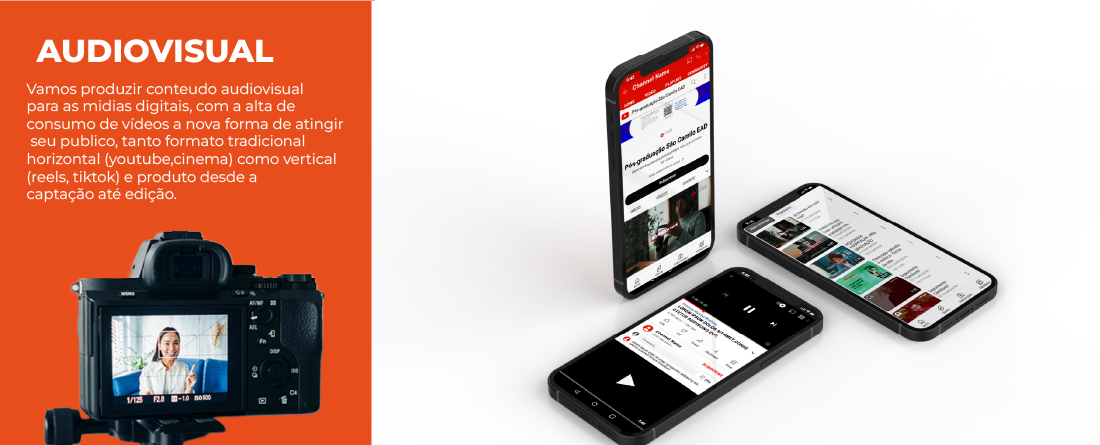
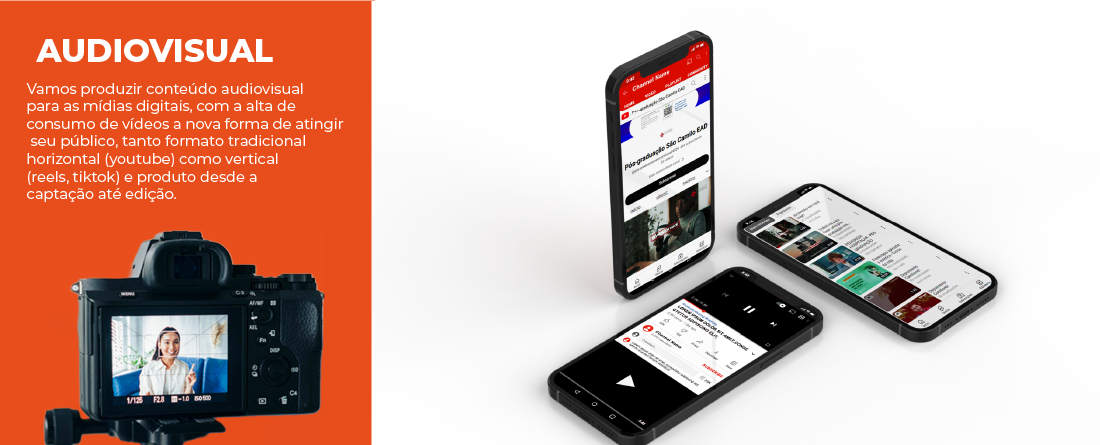
commit2
revisao ortografica

diff --git a/index.html b/index.html
@@ -26,10 +26,10 @@
 		<div id="topo">
 			<div id="centralizadormenu">
 				<ul id="menu">
-				<li class="menuitens"><a href="index.html">Inicio</a></li>
+				<li class="menuitens"><a href="index.html">Início</a></li>
 				<li class="menuitens"><a href="sobre.html">Sobre</a></li>
 				<li id="logolista"><a href="index.html"><img src="imagens/logotopo.png"></a></li>		
-				<li class="menuitens"><a href="portfolio.html">Portfolio</a></li>
+				<li class="menuitens"><a href="portfolio.html">Portfólio</a></li>
 				<li class="menuitens"><a href="contato.html">Contato</a></li>
 
 				</ul>	
@@ -47,11 +47,11 @@
 	
 		<div id="servicosindex1">
 			<div class="caixaserv"  id="caixa1"> 
-				<div id="textofalamossualingua">Falamos a sua língua  <br>e temos a solução do<br> seu problema </div>
+				<div id="textofalamossualingua">Falamos a sua língua e temos a solução do<br> seu problema </div>
 			</div>
 			
 			<div class="caixaserv"  id="caixa2"> 
-					<div id="textoomarketing">O marketing digital e uma ferramenta essencial para empreendedores, não<br> precisa ser complicado, deixamos simples para voce.</div>
+					<div id="textoomarketing">O marketing digital e uma ferramenta essencial para empreendedores, não<br> precisa ser complicado, deixamos simples para você.</div>
 			</div>
 			
 			
@@ -75,7 +75,7 @@
 						<div id="logodesignergrafico"> <img src="imagens/1x/Prancheta 1.png"> </div>
 				
 						<div id="designergrafico"> 
-						<h1 class="tituloservicos">Design Grafico</h1> 
+						<h1 class="tituloservicos">Design Gráfico</h1> 
 						
 						<p class="textoservicos"> Produção de peças graficas,Criação de marca e consolidação  de marca.</p>
 				</div>
@@ -93,7 +93,7 @@
 					<div id="audiovisual"> 
 						<h1 class="tituloservicos">Audiovisual</h1> 
 						
-						<p class="textoservicos" >Produção de audiovisual <br> para sua empresa,  adptado <br> de acordo com a plataforma.</p>
+						<p class="textoservicos" >Produção de audiovisual <br> para sua empresa, adaptado <br> de acordo com a plataforma.</p>
 			
 			
 					</div>
@@ -112,7 +112,7 @@
 							<div id="marketing"> 
 									<h1 class="tituloservicos">Marketing de Conteudo</h1> 
 						
-									<p class="textoservicos"		>Marketing de conteúdo, <br> gestão de redes sociais e seus <br> respectivos trafegos pago. </p>
+									<p class="textoservicos"		>Marketing de conteúdo, <br> gestão de redes sociais e seus <br> respectivos tráfegos pago. </p>
 			
 			
 							</div>

diff --git a/contato.html b/contato.html
@@ -24,10 +24,10 @@
 		<div id="topo">
 			<div id="centralizadormenu">
 				<ul id="menu">
-				<li class="menuitens"><a href="index.html">Inicio</a></li>
+				<li class="menuitens"><a href="index.html">Início</a></li>
 				<li class="menuitens"><a href="sobre.html">Sobre</a></li>
 				<li id="logolista"><a href="index.html"><img src="./contato_files/logotopo.png"></a></li>		
-				<li class="menuitens"><a href="portfolio.html">Portfolio</a></li>
+				<li class="menuitens"><a href="portfolio.html">Portfólio</a></li>
 				<li class="menuitens"><a href="contato.html">Contato</a></li>
 
 				</ul>	

diff --git a/portfolio.html b/portfolio.html
@@ -23,10 +23,10 @@
 		<div id="topo">
 			<div id="centralizadormenu">
 				<ul id="menu">
-				<li class="menuitens"><a href="index.html">Inicio</a></li>
+				<li class="menuitens"><a href="index.html">Início</a></li>
 				<li class="menuitens"><a href="sobre.html">Sobre</a></li>
 				<li id="logolista"><a href="index.html"><img src="imagens/logotopo.png"></a></li>		
-				<li class="menuitens"><a href="portfolio.html">Portfolio</a></li>
+				<li class="menuitens"><a href="portfolio.html">Portfólio</a></li>
 				<li class="menuitens"><a href="contato.html">Contato</a></li>
 
 				</ul>	

diff --git a/sobre.html b/sobre.html
@@ -20,10 +20,10 @@
 		<div id="topo">
 			<div id="centralizadormenu">
 				<ul id="menu">
-				<li class="menuitens"><a href="index.html">Inicio</a></li>
+				<li class="menuitens"><a href="index.html">Início</a></li>
 				<li class="menuitens"><a href="sobre.html">Sobre</a></li>
 				<li id="logolista"><a href="index.html"><img src="imagens/logotopo.png"></a></li>		
-				<li class="menuitens"><a href="portfolio.html">Portfolio</a></li>
+				<li class="menuitens"><a href="portfolio.html">Portfólio</a></li>
 				<li class="menuitens"><a href="contato.html">Contato</a></li>
 
 				</ul>	
